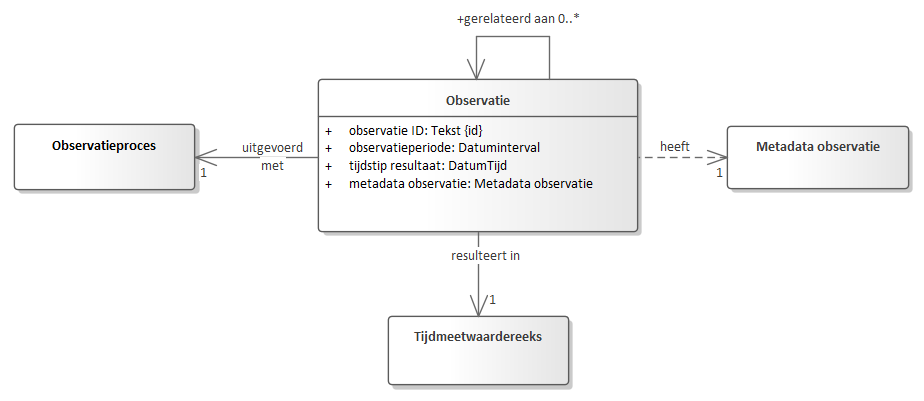
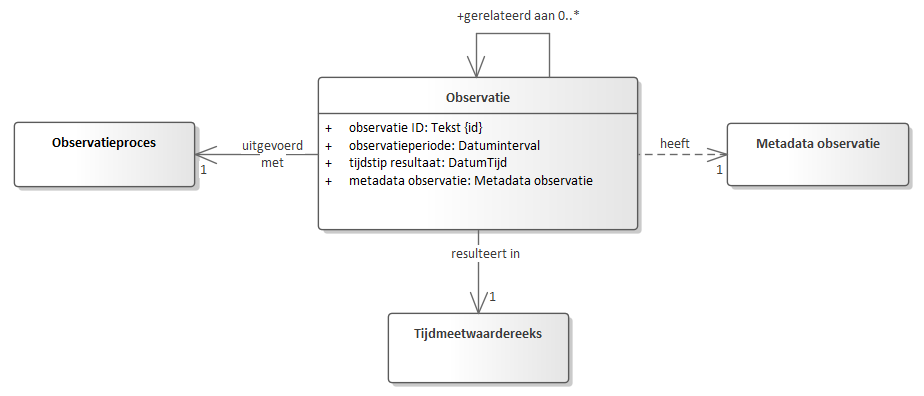
Conceptualmodel-GrondwaterstandonderzoekGLD-0.91-3-20191111-20230227-111228

diff --git a/data/GLD-cat.msword.html b/data/GLD-cat.msword.html
@@ -14,8 +14,8 @@
    </head>
    <body>
       <p>Conceptual model/Grondwaterstandonderzoek (GLD)/20191111</p>
-      <p>Imvertor: 1.67.1</p>
-      <p>Model release: Conceptualmodel-GrondwaterstandonderzoekGLD-0.91-3-20191111-20221004-145945</p>
+      <p>Imvertor: 2.0.0</p>
+      <p>Model release: Conceptualmodel-GrondwaterstandonderzoekGLD-0.91-3-20191111-20230227-111228</p>
       <hr>
       <section>
          <h1>Artikel 1 Definitie van registratieobject, entiteiten en attributen</h1>
@@ -177,7 +177,7 @@
                            </tr>
                         </tbody>
                      </table>
-                     </section><a class="anchor" id="detail_d34870e2388"></a><section id="detail_d34870e2388">
+                     </section><a class="anchor" id="detail_d36475e2379"></a><section id="detail_d36475e2379">
                      <h4>  registratiegeschiedenis</h4>
                      <table style="width: 100%;">
                         <colgroup style="width: 30%;"></colgroup>
@@ -542,7 +542,7 @@
                               <th>Regels</th>
                               <td>
                                  
-                                 <p>het attribuut moet aanwezig zijn wanneer de <em>registratiestatus</em> de waarde <em>voltooid</em> heeft. Het attribuut ontbreekt in alle andere gevallen.</p>
+                                 <p>Het attribuut moet aanwezig zijn wanneer de <em>registratiestatus</em> de waarde <em>voltooid</em> heeft. Het attribuut ontbreekt in alle andere gevallen.</p>
                                  </td>
                            </tr>
                            <tr>
@@ -1132,7 +1132,7 @@
                      </section>
                </section><a class="anchor" id="graph_EAID_665112EA_A39D_4ff0_BC95_CDDD3C5314EE"></a><a class="anchor" id="global_class_Model_Observatie"></a><section id="global_class_Model_Observatie">
                   <h3>   Observatie</h3>
-                  <div class="imageinfo "><img src="Images/EAID_FFE0225E_BCD2_4577_80E8_F7BE7B9C534D.png" usemap="#imagemap-EAID_FFE0225E_BCD2_4577_80E8_F7BE7B9C534D" alt="Diagram "><map name="imagemap-EAID_FFE0225E_BCD2_4577_80E8_F7BE7B9C534D"><area shape="rect" alt="Observatieproces" coords="14,124,195,190" href="#graph_EAID_60FD1126_3C17_4798_955B_1E516F7A0B33"><area shape="rect" alt="Tijdmeetwaardereeks" coords="388,316,569,385" href="#graph_EAID_590167CC_D7A2_4abb_8672_8592B1DF1842"><area shape="rect" alt="Metadata observatie" coords="727,126,909,189" href="#graph_EAID_2931B2EB_8861_47e1_B587_ADACE12C97F7"><area shape="rect" alt="Observatie" coords="318,79,638,232" href="#graph_EAID_665112EA_A39D_4ff0_BC95_CDDD3C5314EE"></map><p><b></b></p>
+                  <div class="imageinfo "><img src="Images/EAID_FFE0225E_BCD2_4577_80E8_F7BE7B9C534D.png" usemap="#imagemap-EAID_FFE0225E_BCD2_4577_80E8_F7BE7B9C534D" alt="Diagram "><map name="imagemap-EAID_FFE0225E_BCD2_4577_80E8_F7BE7B9C534D"><area shape="rect" alt="Observatieproces" coords="14,122,195,187" href="#graph_EAID_60FD1126_3C17_4798_955B_1E516F7A0B33"><area shape="rect" alt="Tijdmeetwaardereeks" coords="388,313,569,383" href="#graph_EAID_590167CC_D7A2_4abb_8672_8592B1DF1842"><area shape="rect" alt="Metadata observatie" coords="727,123,909,186" href="#graph_EAID_2931B2EB_8861_47e1_B587_ADACE12C97F7"><area shape="rect" alt="Observatie" coords="318,77,638,230" href="#graph_EAID_665112EA_A39D_4ff0_BC95_CDDD3C5314EE"></map><p><b></b></p>
                   </div>
                   <table style="width: 100%;">
                      <colgroup style="width: 30%;"></colgroup>
@@ -1323,7 +1323,7 @@
                            </tr>
                         </tbody>
                      </table>
-                     </section><a class="anchor" id="detail_d34870e6750"></a><section id="detail_d34870e6750">
+                     </section><a class="anchor" id="detail_d36475e6741"></a><section id="detail_d36475e6741">
                      <h4>  metadata observatie</h4>
                      <table style="width: 100%;">
                         <colgroup style="width: 30%;"></colgroup>
@@ -1666,7 +1666,7 @@
                            </tr>
                         </tbody>
                      </table>
-                     </section><a class="anchor" id="detail_d34870e7645"></a><section id="detail_d34870e7645">
+                     </section><a class="anchor" id="detail_d36475e7636"></a><section id="detail_d36475e7636">
                      <h4>  uitvoerder</h4>
                      <table style="width: 100%;">
                         <colgroup style="width: 30%;"></colgroup>
@@ -1829,6 +1829,13 @@
                               <td>Tekst 200</td>
                            </tr>
                            <tr>
+                              <th>Regels</th>
+                              <td>
+                                 
+                                 <p>De waarde van het attribuut moet gelijk zijn aan <em>''</em>.</p>
+                                 </td>
+                           </tr>
+                           <tr>
                               <th>Mogelijk geen waarde</th>
                               <td>Ja</td>
                            </tr>
@@ -1836,7 +1843,16 @@
                               <th>Reden geen waarde</th>
                               <td>
                                  
-                                 <p>Voor IMBRO/A-gegevens mag de waarde ontbreken. </p>
+                                 <p>Voor IMBRO/A-gegevens mag de waarde ontbreken.</p>
+                                 </td>
+                           </tr>
+                           <tr>
+                              <th>Toelichting</th>
+                              <td>
+                                 
+                                 <p>De organisatienaam moet aanwezig zijn vanwege compatibiliteit met de WaterML-standaard.
+                                    Een lege waarde wordt opgenomen omdat de registratie ondergrond alleen referenties
+                                    naar organisaties bevat en geen overige organisatiegegevens.</p>
                                  </td>
                            </tr>
                         </tbody>
@@ -2232,7 +2248,7 @@
                            </tr>
                         </tbody>
                      </table>
-                     </section><a class="anchor" id="detail_d34870e9919"></a><section id="detail_d34870e9919">
+                     </section><a class="anchor" id="detail_d36475e9967"></a><section id="detail_d36475e9967">
                      <h4>  tijdmeetwaardepaar</h4>
                      <table style="width: 100%;">
                         <colgroup style="width: 30%;"></colgroup>
@@ -2411,7 +2427,7 @@
                            </tr>
                         </tbody>
                      </table>
-                     </section><a class="anchor" id="detail_d34870e10786"></a><section id="detail_d34870e10786">
+                     </section><a class="anchor" id="detail_d36475e10834"></a><section id="detail_d36475e10834">
                      <h4>  metadata tijdmeetwaardepaar</h4>
                      <table style="width: 100%;">
                         <colgroup style="width: 30%;"></colgroup>

diff --git a/data/GLD-cat.respec.html b/data/GLD-cat.respec.html
@@ -153,7 +153,7 @@
                   </tr>
                </tbody>
             </table>
-            </section><a class="anchor" id="detail_d34870e2388"></a><section id="detail_d34870e2388">
+            </section><a class="anchor" id="detail_d36475e2379"></a><section id="detail_d36475e2379">
             <h4>  registratiegeschiedenis</h4>
             <table style="width: 100%;">
                <colgroup style="width: 30%;"></colgroup>
@@ -518,7 +518,7 @@
                      <th>Regels</th>
                      <td>
                         
-                        <p>het attribuut moet aanwezig zijn wanneer de <em>registratiestatus</em> de waarde <em>voltooid</em> heeft. Het attribuut ontbreekt in alle andere gevallen.</p>
+                        <p>Het attribuut moet aanwezig zijn wanneer de <em>registratiestatus</em> de waarde <em>voltooid</em> heeft. Het attribuut ontbreekt in alle andere gevallen.</p>
                         </td>
                   </tr>
                   <tr>
@@ -1108,7 +1108,7 @@
             </section>
       </section><a class="anchor" id="graph_EAID_665112EA_A39D_4ff0_BC95_CDDD3C5314EE"></a><a class="anchor" id="global_class_Model_Observatie"></a><section id="global_class_Model_Observatie">
          <h3>   Observatie</h3>
-         <div class="imageinfo "><img src="data/Images/EAID_FFE0225E_BCD2_4577_80E8_F7BE7B9C534D.png" usemap="#imagemap-EAID_FFE0225E_BCD2_4577_80E8_F7BE7B9C534D" alt="Diagram "><map name="imagemap-EAID_FFE0225E_BCD2_4577_80E8_F7BE7B9C534D"><area shape="rect" alt="Observatieproces" coords="14,124,195,190" href="#graph_EAID_60FD1126_3C17_4798_955B_1E516F7A0B33"><area shape="rect" alt="Tijdmeetwaardereeks" coords="388,316,569,385" href="#graph_EAID_590167CC_D7A2_4abb_8672_8592B1DF1842"><area shape="rect" alt="Metadata observatie" coords="727,126,909,189" href="#graph_EAID_2931B2EB_8861_47e1_B587_ADACE12C97F7"><area shape="rect" alt="Observatie" coords="318,79,638,232" href="#graph_EAID_665112EA_A39D_4ff0_BC95_CDDD3C5314EE"></map><p><b></b></p>
+         <div class="imageinfo "><img src="data/Images/EAID_FFE0225E_BCD2_4577_80E8_F7BE7B9C534D.png" usemap="#imagemap-EAID_FFE0225E_BCD2_4577_80E8_F7BE7B9C534D" alt="Diagram "><map name="imagemap-EAID_FFE0225E_BCD2_4577_80E8_F7BE7B9C534D"><area shape="rect" alt="Observatieproces" coords="14,122,195,187" href="#graph_EAID_60FD1126_3C17_4798_955B_1E516F7A0B33"><area shape="rect" alt="Tijdmeetwaardereeks" coords="388,313,569,383" href="#graph_EAID_590167CC_D7A2_4abb_8672_8592B1DF1842"><area shape="rect" alt="Metadata observatie" coords="727,123,909,186" href="#graph_EAID_2931B2EB_8861_47e1_B587_ADACE12C97F7"><area shape="rect" alt="Observatie" coords="318,77,638,230" href="#graph_EAID_665112EA_A39D_4ff0_BC95_CDDD3C5314EE"></map><p><b></b></p>
          </div>
          <table style="width: 100%;">
             <colgroup style="width: 30%;"></colgroup>
@@ -1299,7 +1299,7 @@
                   </tr>
                </tbody>
             </table>
-            </section><a class="anchor" id="detail_d34870e6750"></a><section id="detail_d34870e6750">
+            </section><a class="anchor" id="detail_d36475e6741"></a><section id="detail_d36475e6741">
             <h4>  metadata observatie</h4>
             <table style="width: 100%;">
                <colgroup style="width: 30%;"></colgroup>
@@ -1642,7 +1642,7 @@
                   </tr>
                </tbody>
             </table>
-            </section><a class="anchor" id="detail_d34870e7645"></a><section id="detail_d34870e7645">
+            </section><a class="anchor" id="detail_d36475e7636"></a><section id="detail_d36475e7636">
             <h4>  uitvoerder</h4>
             <table style="width: 100%;">
                <colgroup style="width: 30%;"></colgroup>
@@ -1805,6 +1805,13 @@
                      <td>Tekst 200</td>
                   </tr>
                   <tr>
+                     <th>Regels</th>
+                     <td>
+                        
+                        <p>De waarde van het attribuut moet gelijk zijn aan <em>''</em>.</p>
+                        </td>
+                  </tr>
+                  <tr>
                      <th>Mogelijk geen waarde</th>
                      <td>Ja</td>
                   </tr>
@@ -1812,7 +1819,16 @@
                      <th>Reden geen waarde</th>
                      <td>
                         
-                        <p>Voor IMBRO/A-gegevens mag de waarde ontbreken. </p>
+                        <p>Voor IMBRO/A-gegevens mag de waarde ontbreken.</p>
+                        </td>
+                  </tr>
+                  <tr>
+                     <th>Toelichting</th>
+                     <td>
+                        
+                        <p>De organisatienaam moet aanwezig zijn vanwege compatibiliteit met de WaterML-standaard.
+                           Een lege waarde wordt opgenomen omdat de registratie ondergrond alleen referenties
+                           naar organisaties bevat en geen overige organisatiegegevens.</p>
                         </td>
                   </tr>
                </tbody>
@@ -2208,7 +2224,7 @@
                   </tr>
                </tbody>
             </table>
-            </section><a class="anchor" id="detail_d34870e9919"></a><section id="detail_d34870e9919">
+            </section><a class="anchor" id="detail_d36475e9967"></a><section id="detail_d36475e9967">
             <h4>  tijdmeetwaardepaar</h4>
             <table style="width: 100%;">
                <colgroup style="width: 30%;"></colgroup>
@@ -2387,7 +2403,7 @@
                   </tr>
                </tbody>
             </table>
-            </section><a class="anchor" id="detail_d34870e10786"></a><section id="detail_d34870e10786">
+            </section><a class="anchor" id="detail_d36475e10834"></a><section id="detail_d36475e10834">
             <h4>  metadata tijdmeetwaardepaar</h4>
             <table style="width: 100%;">
                <colgroup style="width: 30%;"></colgroup>
